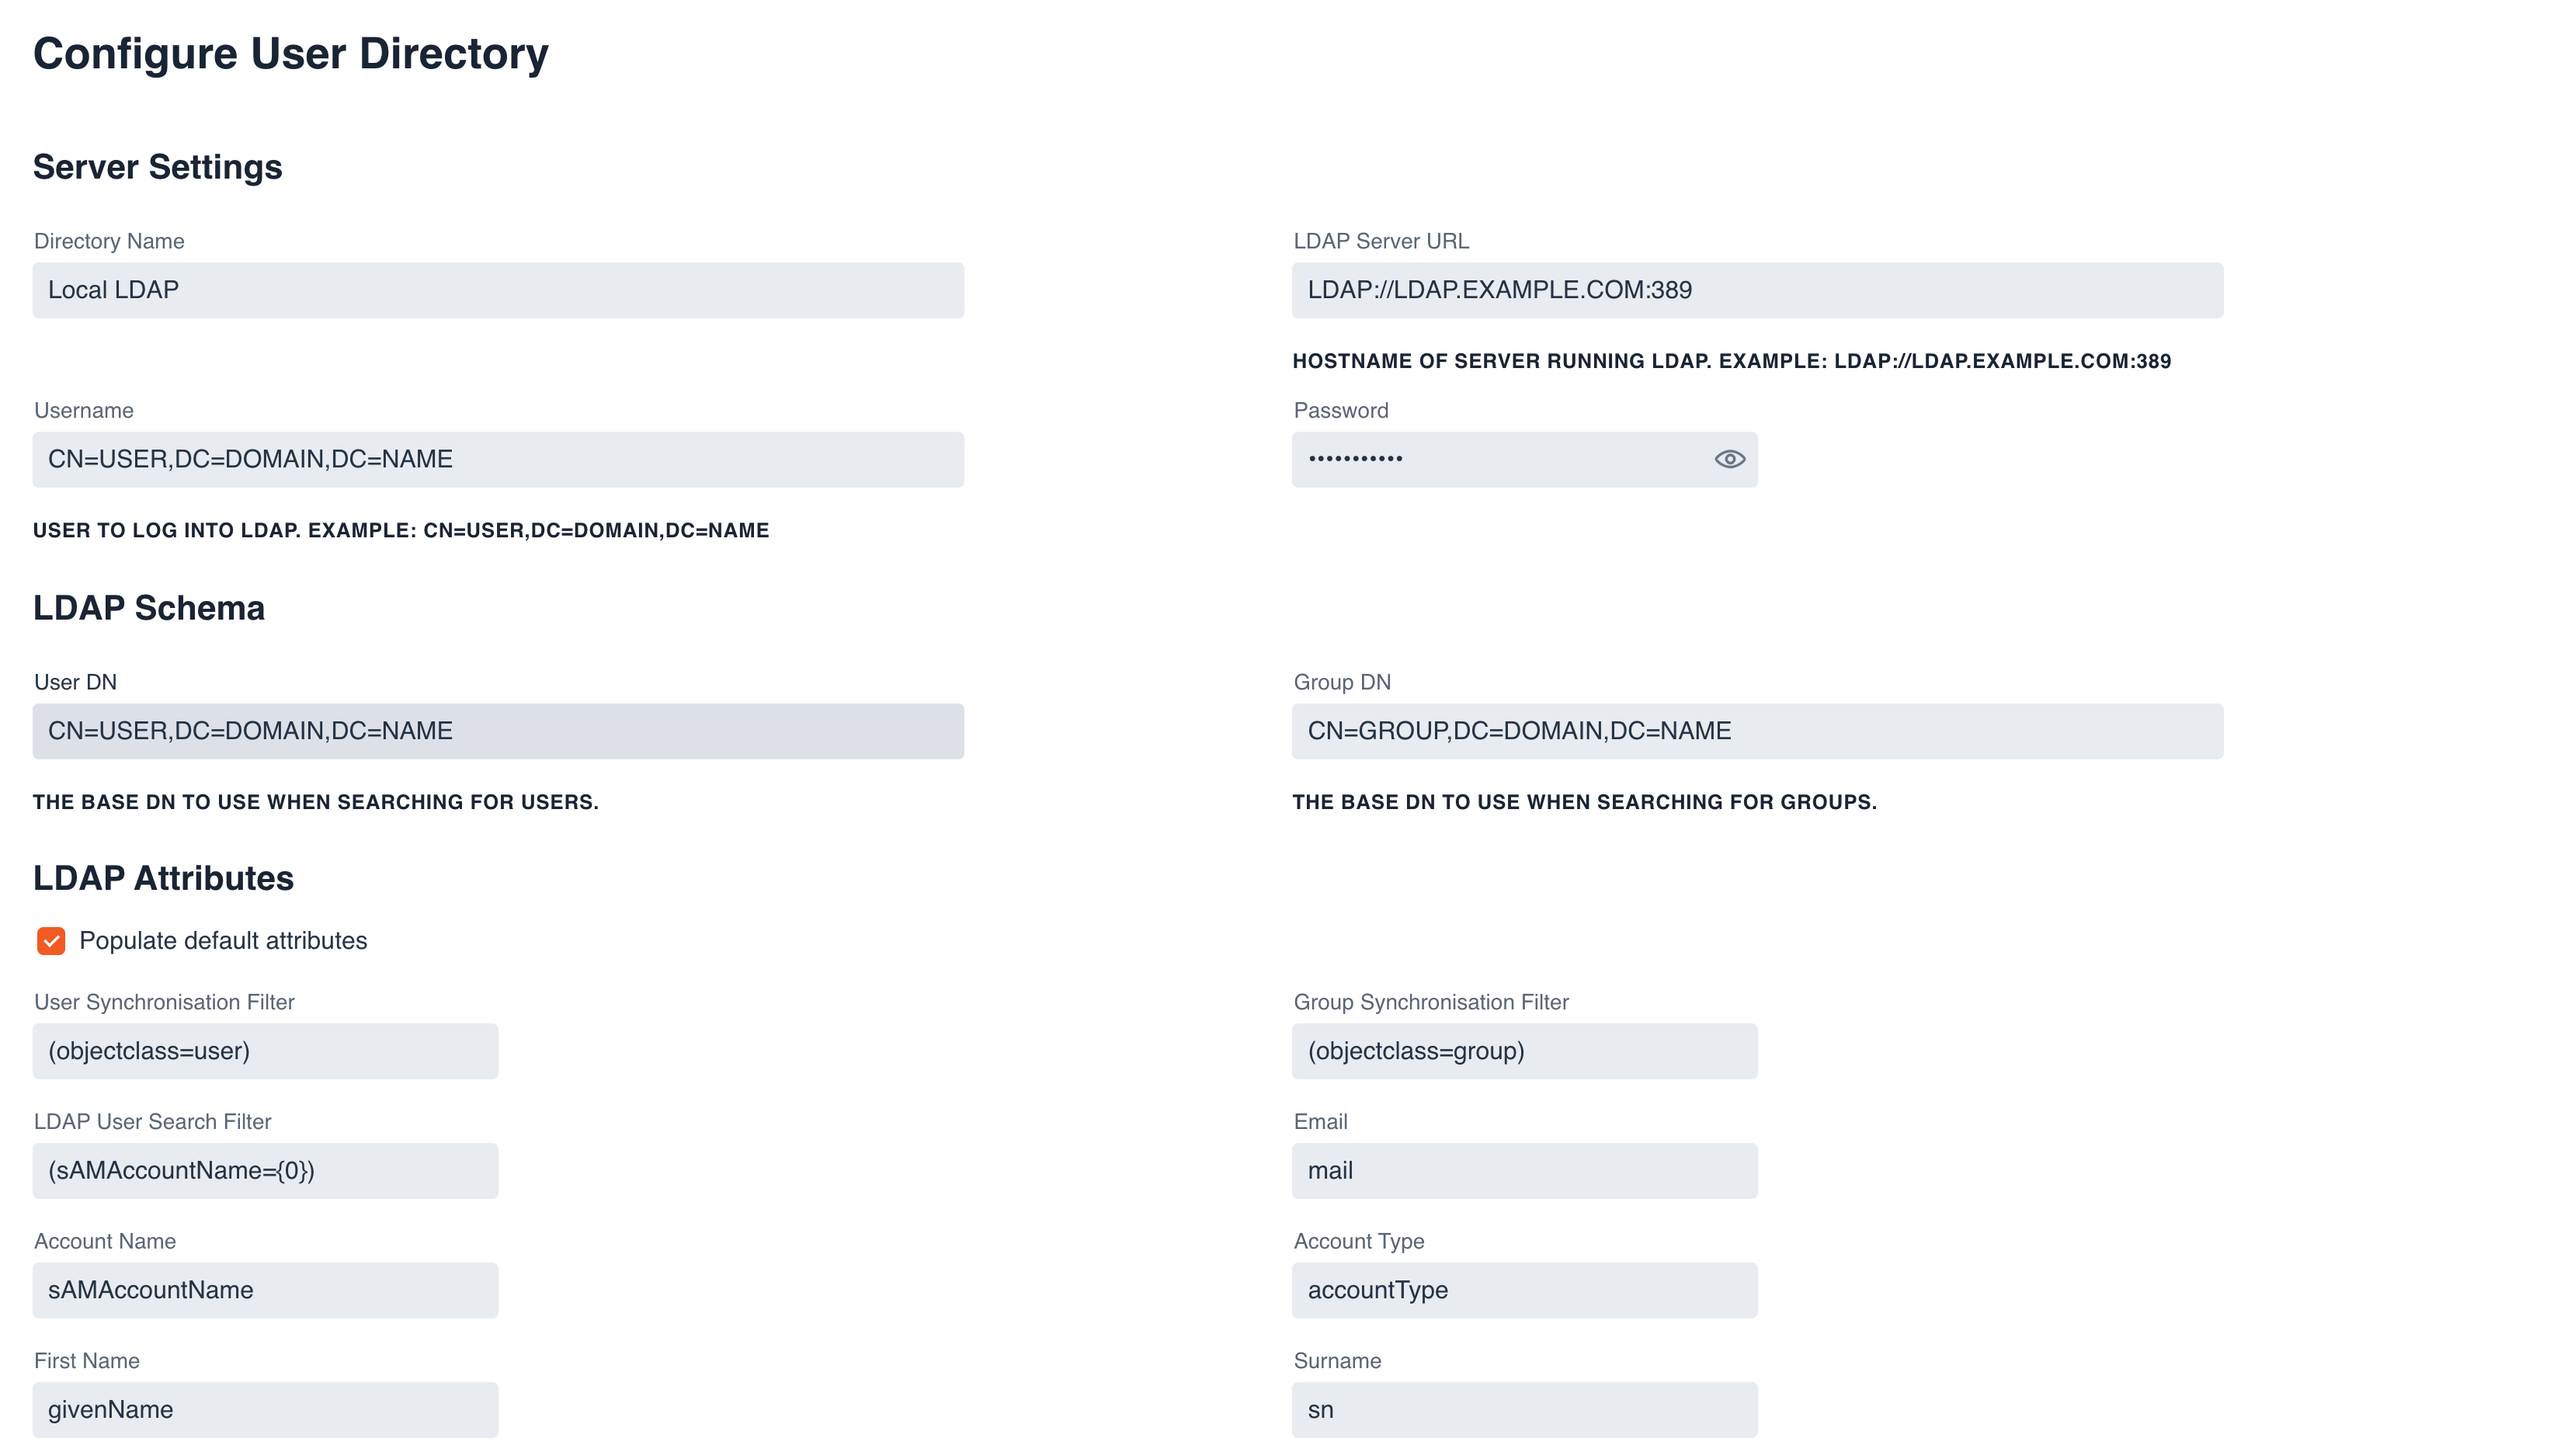
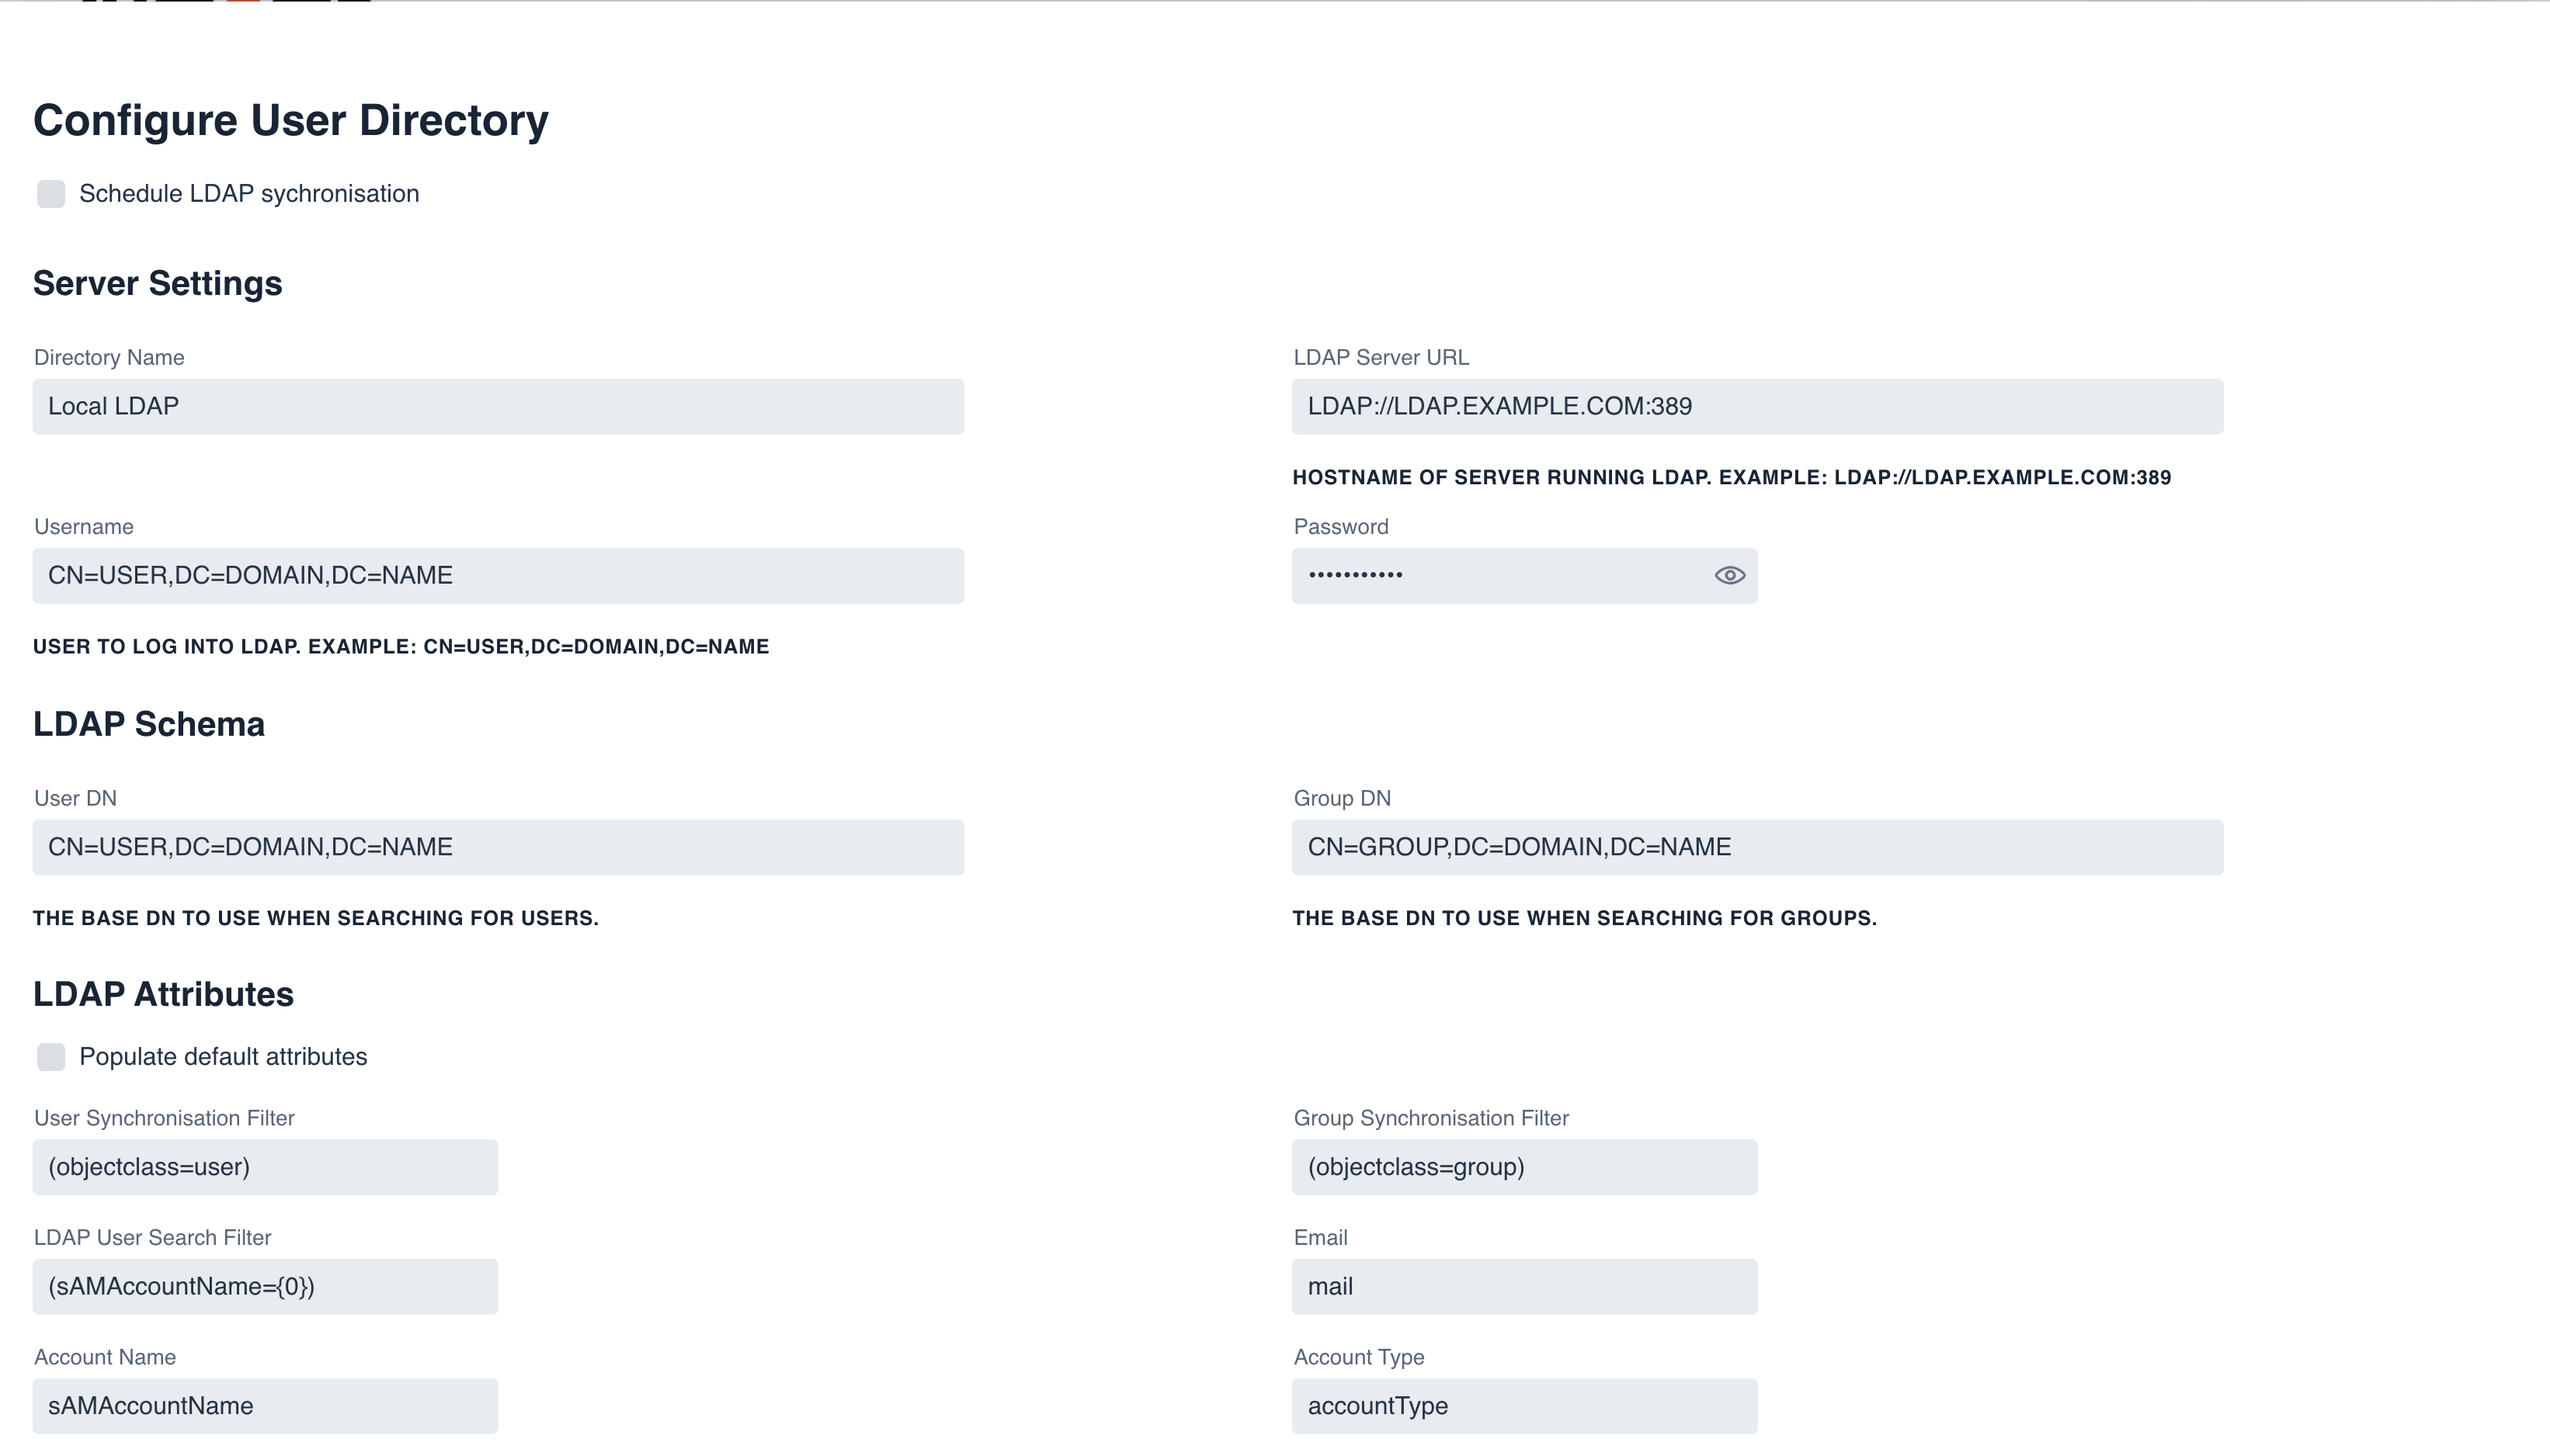
IKASAN-1780 updating documentation

diff --git a/ikasaneip/visualisation/dashboard/ldap-management.md b/ikasaneip/visualisation/dashboard/ldap-management.md
@@ -23,5 +23,8 @@ New configurations can be added by pressing the 'Add Directory' button.
 When editing or creating a new configuration, the user will be presented with the following screen. All feilds are mandatory, however the majority of fields on the configuration screen can use the provided default values.
 ![LDAP Configuration Management](../../developer/docs/quickstart-images/manage-ldap-configuration.png)
 
+It is possible to schedule the synchronisation of LDAP repositories to run automatically as seen below. The cron expression must be a valid [quartz](http://www.quartz-scheduler.org/documentation/quartz-2.3.0/tutorials/crontrigger.html) expression.
+![LDAP Configuration Management](../../developer/docs/quickstart-images/schedule-ldap.png) 
+
 
 
